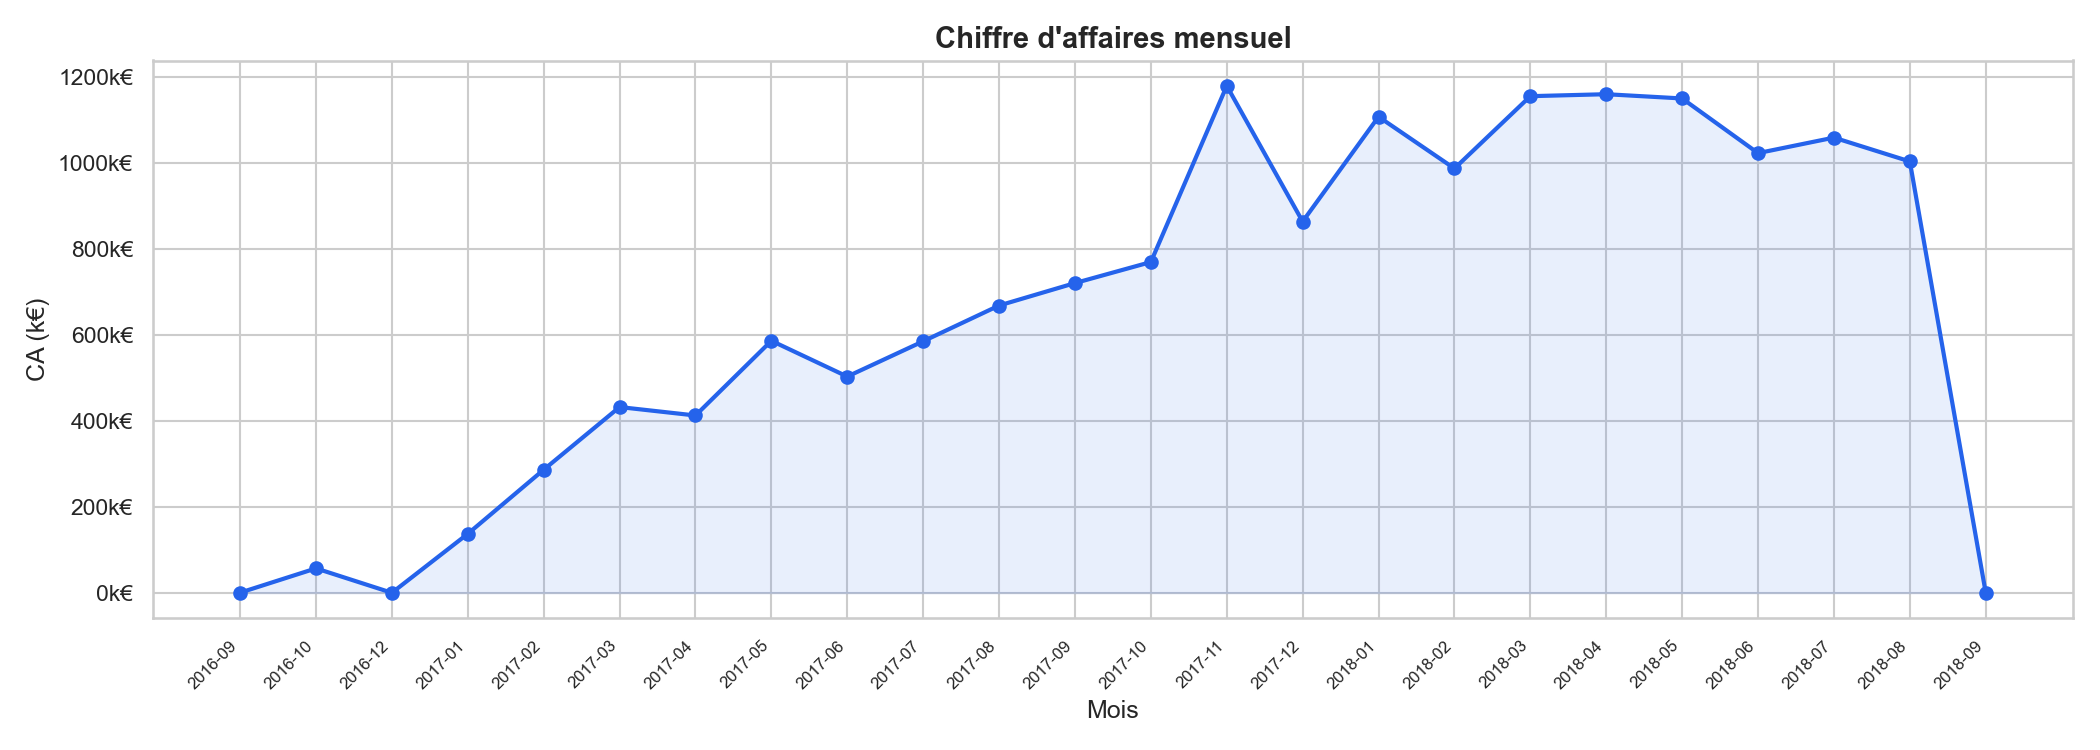
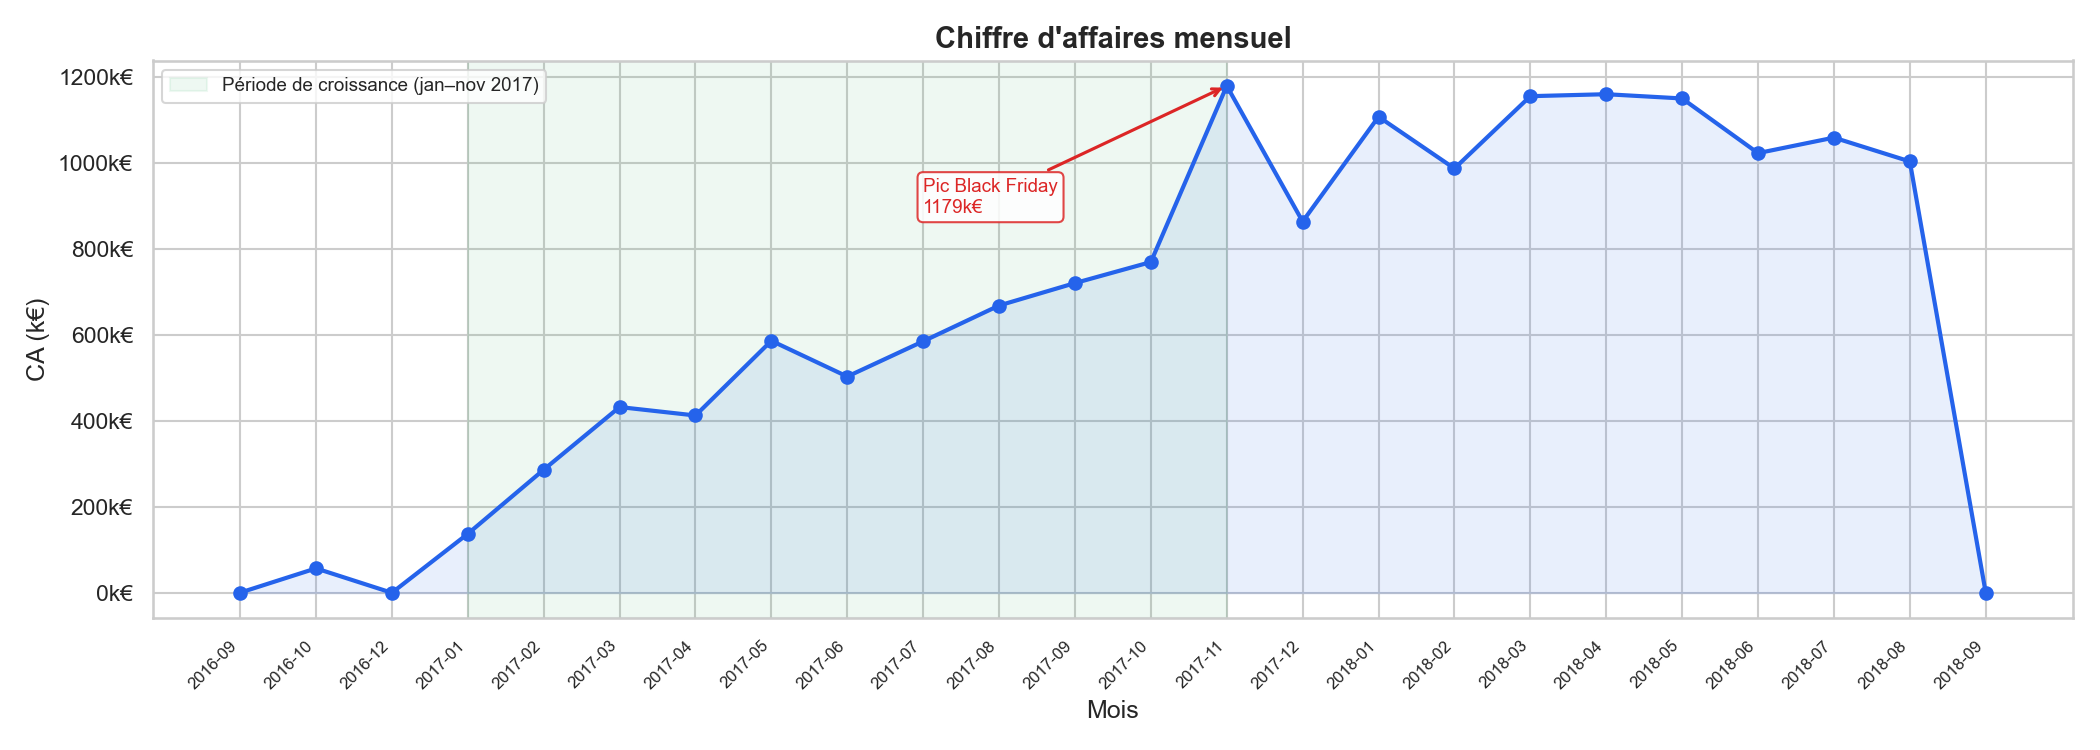
feat: add annotations to matplotlib charts (Black Friday, labels, median)

diff --git a/src/analyze.py b/src/analyze.py
@@ -7,6 +7,7 @@ Module d'analyse : génération des visualisations KPIs e-commerce.
 import pandas as pd
 import matplotlib.pyplot as plt
 import matplotlib.ticker as mticker
+import matplotlib.patches as mpatches
 import seaborn as sns
 from pathlib import Path
 from src.load import query_sqlite
@@ -15,9 +16,15 @@ from src.load import query_sqlite
 OUTPUT_PATH = Path("outputs")
 sns.set_theme(style="whitegrid")
 
+# Palette cohérente avec le dashboard Streamlit
+BLUE    = "#2563EB"
+RED     = "#DC2626"
+GREEN   = "#16A34A"
+AMBER   = "#D97706"
+
 
 def plot_ca_mensuel() -> None:
-    """Chiffre d'affaires mensuel sur toute la période."""
+    """Chiffre d'affaires mensuel sur toute la période, avec annotations."""
     sql = """
         SELECT purchase_month,
                ROUND(SUM(revenue), 2) AS ca_mensuel
@@ -28,14 +35,47 @@ def plot_ca_mensuel() -> None:
     df = query_sqlite(sql)
 
     fig, ax = plt.subplots(figsize=(14, 5))
-    ax.plot(df["purchase_month"], df["ca_mensuel"], marker="o", color="#2563EB", linewidth=2)
-    ax.fill_between(range(len(df)), df["ca_mensuel"], alpha=0.1, color="#2563EB")
+
+    # Courbe principale
+    ax.plot(df["purchase_month"], df["ca_mensuel"],
+            marker="o", color=BLUE, linewidth=2, zorder=3)
+    ax.fill_between(range(len(df)), df["ca_mensuel"],
+                    alpha=0.1, color=BLUE)
+
+    # ── Zone de croissance (2017-01 → 2017-11) ────────────────────────────
+    idx_debut  = df[df["purchase_month"] == "2017-01"].index
+    idx_pic    = df[df["purchase_month"] == "2017-11"].index
+
+    if len(idx_debut) and len(idx_pic):
+        i_debut = df.index.get_loc(idx_debut[0])
+        i_pic   = df.index.get_loc(idx_pic[0])
+        ax.axvspan(i_debut, i_pic, alpha=0.07, color=GREEN,
+                   label="Période de croissance (jan–nov 2017)")
+
+    # ── Annotation pic novembre 2017 (Black Friday) ───────────────────────
+    idx_bf = df[df["purchase_month"] == "2017-11"].index
+    if len(idx_bf):
+        i_bf   = df.index.get_loc(idx_bf[0])
+        val_bf = df.loc[idx_bf[0], "ca_mensuel"]
+        ax.annotate(
+            f"Pic Black Friday\n{val_bf/1000:.0f}k€",
+            xy=(i_bf, val_bf),
+            xytext=(i_bf - 4, val_bf * 0.75),
+            fontsize=9,
+            color=RED,
+            arrowprops=dict(arrowstyle="->", color=RED, lw=1.5),
+            bbox=dict(boxstyle="round,pad=0.3", fc="white", ec=RED, alpha=0.85),
+        )
+
     ax.set_xticks(range(len(df)))
     ax.set_xticklabels(df["purchase_month"], rotation=45, ha="right", fontsize=8)
-    ax.yaxis.set_major_formatter(mticker.FuncFormatter(lambda x, _: f"{x/1000:.0f}k€"))
+    ax.yaxis.set_major_formatter(
+        mticker.FuncFormatter(lambda x, _: f"{x/1000:.0f}k€")
+    )
     ax.set_title("Chiffre d'affaires mensuel", fontsize=14, fontweight="bold")
     ax.set_xlabel("Mois")
     ax.set_ylabel("CA (k€)")
+    ax.legend(fontsize=9)
     plt.tight_layout()
     plt.savefig(OUTPUT_PATH / "ca_mensuel.png", dpi=150)
     plt.close()
@@ -43,7 +83,7 @@ def plot_ca_mensuel() -> None:
 
 
 def plot_top_categories() -> None:
-    """Top 10 catégories de produits par chiffre d'affaires."""
+    """Top 10 catégories par CA, avec valeurs annotées sur chaque barre."""
     sql = """
         SELECT product_category_name_english AS categorie,
                ROUND(SUM(revenue), 2) AS ca
@@ -56,9 +96,36 @@ def plot_top_categories() -> None:
     df = query_sqlite(sql)
 
     fig, ax = plt.subplots(figsize=(10, 6))
-    bars = ax.barh(df["categorie"][::-1], df["ca"][::-1], color="#2563EB")
-    ax.xaxis.set_major_formatter(mticker.FuncFormatter(lambda x, _: f"{x/1000:.0f}k€"))
-    ax.set_title("Top 10 catégories par chiffre d'affaires", fontsize=14, fontweight="bold")
+    bars = ax.barh(df["categorie"][::-1], df["ca"][::-1], color=BLUE, alpha=0.85)
+
+    # ── Valeur annotée : intérieur si barre assez grande, extérieur sinon ─
+    seuil = df["ca"].max() * 0.15  # barre trop courte si < 15% du max
+    for bar, val in zip(bars, df["ca"][::-1]):
+        if bar.get_width() >= seuil:
+            # Texte blanc à l'intérieur
+            ax.text(
+                bar.get_width() - df["ca"].max() * 0.01,
+                bar.get_y() + bar.get_height() / 2,
+                f"{val/1000:.0f}k€",
+                va="center", ha="right", fontsize=9,
+                color="white", fontweight="bold",
+            )
+        else:
+            # Texte bleu foncé à l'extérieur
+            ax.text(
+                bar.get_width() + df["ca"].max() * 0.01,
+                bar.get_y() + bar.get_height() / 2,
+                f"{val/1000:.0f}k€",
+                va="center", ha="left", fontsize=9,
+                color="#1e3a5f", fontweight="bold",
+            )
+
+    ax.xaxis.set_major_formatter(
+        mticker.FuncFormatter(lambda x, _: f"{x/1000:.0f}k€")
+    )
+    ax.set_xlim(0, df["ca"].max() * 1.18)
+    ax.set_title("Top 10 catégories par chiffre d'affaires",
+                 fontsize=14, fontweight="bold")
     ax.set_xlabel("CA (k€)")
     plt.tight_layout()
     plt.savefig(OUTPUT_PATH / "top_categories.png", dpi=150)
@@ -67,7 +134,10 @@ def plot_top_categories() -> None:
 
 
 def plot_delai_livraison() -> None:
-    """Distribution des délais de livraison."""
+    """
+    Distribution des délais de livraison.
+    Annotations : moyenne, médiane, zone livraison rapide (< 7 jours).
+    """
     sql = """
         SELECT delivery_days
         FROM orders_master
@@ -76,14 +146,30 @@ def plot_delai_livraison() -> None:
     """
     df = query_sqlite(sql)
 
+    moyenne = df["delivery_days"].mean()
+    mediane = df["delivery_days"].median()
+
     fig, ax = plt.subplots(figsize=(10, 5))
-    ax.hist(df["delivery_days"], bins=40, color="#2563EB", edgecolor="white", alpha=0.85)
-    ax.axvline(df["delivery_days"].mean(), color="#DC2626", linestyle="--",
-               linewidth=2, label=f"Moyenne : {df['delivery_days'].mean():.1f} jours")
-    ax.set_title("Distribution des délais de livraison", fontsize=14, fontweight="bold")
+
+    # ── Zone livraison rapide ──────────────────────────────────────────────
+    ax.axvspan(0, 7, alpha=0.12, color=GREEN, label="Livraison rapide (< 7 jours)")
+
+    ax.hist(df["delivery_days"], bins=40, color=BLUE,
+            edgecolor="white", alpha=0.85)
+
+    # ── Moyenne ───────────────────────────────────────────────────────────
+    ax.axvline(moyenne, color=RED, linestyle="--", linewidth=2,
+               label=f"Moyenne : {moyenne:.1f} jours")
+
+    # ── Médiane ───────────────────────────────────────────────────────────
+    ax.axvline(mediane, color=AMBER, linestyle="-.", linewidth=2,
+               label=f"Médiane : {mediane:.1f} jours")
+
+    ax.set_title("Distribution des délais de livraison",
+                 fontsize=14, fontweight="bold")
     ax.set_xlabel("Jours")
     ax.set_ylabel("Nombre de commandes")
-    ax.legend()
+    ax.legend(fontsize=9)
     plt.tight_layout()
     plt.savefig(OUTPUT_PATH / "delai_livraison.png", dpi=150)
     plt.close()
